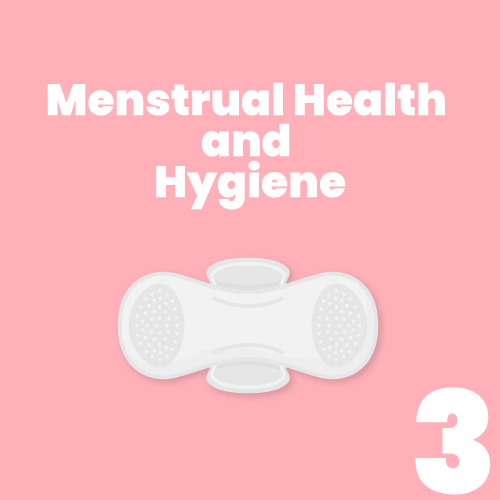
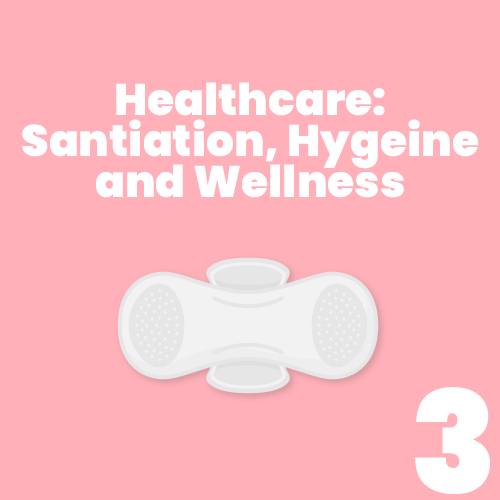
Updated Tracks

Changed region(s): [[0.03, 0.15, 0.96, 0.42]]

diff --git a/index.html b/index.html
@@ -918,7 +918,7 @@
                                         <h1 class="font-alt normal"><strong>TRACK 1</strong></h1>
                                         <br><br>
                                         <h1>
-                                            <strong>Financial Literacy in Rural Areas</strong>
+                                            <strong>Financial Literacy</strong>
                                         </h1>
 
                                     </div>
@@ -943,7 +943,7 @@
                                         <h1 class="font-alt normal"><strong>TRACK 2</strong></h1>
                                         <br><br>
                                         <h1>
-                                            <strong>Optimization in Agriculture</strong>
+                                            <strong>Advancement in Agriculture</strong>
                                         </h1>
 
                                     </div>
@@ -968,7 +968,7 @@
                                         <h1 class="font-alt normal"><strong>TRACK 3</strong></h1>
                                         <br><br>
                                         <h1>
-                                            <strong>Menstrual Health and Hygiene</strong>
+                                            <strong>Healthcare: Sanitation, Hygiene and Wellness</strong>
                                         </h1>
 
                                     </div>
@@ -993,7 +993,7 @@
                                         <h1 class="font-alt normal"><strong>TRACK 4</strong></h1>
                                         <br><br>
                                         <h1>
-                                            <strong>E-Learning Process</strong>
+                                            <strong>Virtual Learning</strong>
                                         </h1>
 
                                     </div>
@@ -1043,7 +1043,7 @@
                                         <h1 class="font-alt normal"><strong>TRACK 6</strong></h1>
                                         <br><br>
                                         <h1>
-                                            <strong>LGBTQI+</strong>
+                                            <strong>Empowering the LGBTQIA+</strong>
                                         </h1>
 
                                     </div>
@@ -1068,7 +1068,7 @@
                                         <h1 class="font-alt normal"><strong>TRACK 7</strong></h1>
                                         <br><br>
                                         <h1>
-                                            <strong>Health Related</strong>
+                                            <strong>Sustainable Development</strong>
                                         </h1>
 
                                     </div>
@@ -1093,7 +1093,7 @@
                                         <h1 class="font-alt normal"><strong>TRACK 8</strong></h1>
                                         <br><br>
                                         <h1>
-                                            <strong>Cyberbullying Awareness</strong>
+                                            <strong>Cybersecurity</strong>
                                         </h1>
 
                                     </div>
@@ -1118,7 +1118,31 @@
                                         <h1 class="font-alt normal"><strong>TRACK 9</strong></h1>
                                         <br><br>
                                         <h1>
-                                            <strong>Differently Abled</strong>
+                                            <strong>Empowering the Specially Abled</strong>
+                                        </h1>
+
+                                    </div>
+                                </div>
+                            </div>
+
+                        </div>
+                    </div>
+
+                    <div>
+                        <div class="post-prev-img mb-0 wow" data-wow-delay="0.2s">
+
+                            <div class="team-item">
+
+                                <div class="team-item-image">
+
+                                    <img src="Tracks/10.png" alt="" />
+
+                                    <div class="team-item-detail">
+
+                                        <h1 class="font-alt normal"><strong>TRACK 10</strong></h1>
+                                        <br><br>
+                                        <h1>
+                                            <strong>Waste Management</strong>
                                         </h1>
 
                                     </div>
